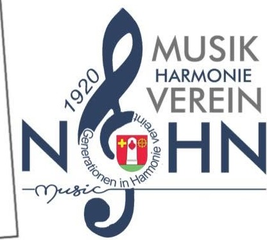
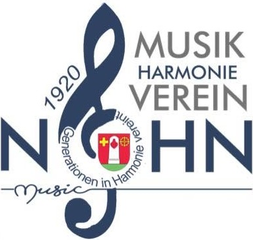
Defekte Vereins-Links durch Facebook-Seiten ersetzen
Musikverein Orscholz, Musikverein Nohn, Musikverein Saarhölzbach und
Musique Union Distroff haben keine aktuelle Homepage mehr, daher wird
jetzt auf ihre offiziellen Facebook-Seiten verlinkt. Zusätzlich wird
im Nohn-Wappen ein Bildrand-Artefakt (dunkle diagonale Linie links)
entfernt.

diff --git a/musiktage.html b/musiktage.html
@@ -254,8 +254,8 @@
           <span class="datum">05. September</span>
         </div>
         <ul>
-          <li><span class="zeit">18:30–20:00</span><span class="was was-logo"><a href="https://www.mv-orscholz.de/" target="_blank" rel="noopener"><img src="assets/wappen-mv-orscholz.png" alt="" class="verein-wappen">Musikverein Orscholz</a></span></li>
-          <li><span class="zeit">20:15–21:45</span><span class="was was-logo"><a href="https://www.union-distroff.fr/" target="_blank" rel="noopener"><img src="assets/wappen-union-distroff.png" alt="" class="verein-wappen">Musique Union Distroff</a></span></li>
+          <li><span class="zeit">18:30–20:00</span><span class="was was-logo"><a href="https://www.facebook.com/MVOrscholz/" target="_blank" rel="noopener"><img src="assets/wappen-mv-orscholz.png" alt="" class="verein-wappen">Musikverein Orscholz</a></span></li>
+          <li><span class="zeit">20:15–21:45</span><span class="was was-logo"><a href="https://www.facebook.com/UnionDistroff/" target="_blank" rel="noopener"><img src="assets/wappen-union-distroff.png" alt="" class="verein-wappen">Musique Union Distroff</a></span></li>
           <li class="brassdur-row">
             <span class="zeit">22:00–00:30</span>
             <span class="was">
@@ -304,8 +304,8 @@
               </div>
             </span>
           </li>
-          <li><span class="zeit">15:15–16:45</span><span class="was was-logo"><a href="https://www.musikverein-nohn.de/" target="_blank" rel="noopener"><img src="assets/wappen-mv-nohn.png" alt="" class="verein-wappen">Musikverein Nohn</a></span></li>
-          <li><span class="zeit">17:00–18:30</span><span class="was was-logo"><a href="https://www.mv1906.de/" target="_blank" rel="noopener"><img src="assets/wappen-mv-saarhoelzbach.png" alt="" class="verein-wappen">Musikverein Saarhölzbach</a></span></li>
+          <li><span class="zeit">15:15–16:45</span><span class="was was-logo"><a href="https://www.facebook.com/mvnohn/" target="_blank" rel="noopener"><img src="assets/wappen-mv-nohn.png" alt="" class="verein-wappen">Musikverein Nohn</a></span></li>
+          <li><span class="zeit">17:00–18:30</span><span class="was was-logo"><a href="https://www.facebook.com/mv1906/" target="_blank" rel="noopener"><img src="assets/wappen-mv-saarhoelzbach.png" alt="" class="verein-wappen">Musikverein Saarhölzbach</a></span></li>
           <li><span class="zeit">18:45–20:15</span><span class="was was-logo"><a href="https://www.mv-hilbringen.de/" target="_blank" rel="noopener"><img src="assets/wappen-mv-hilbringen.png" alt="" class="verein-wappen">Musikverein Hilbringen</a></span></li>
         </ul>
       </div>
